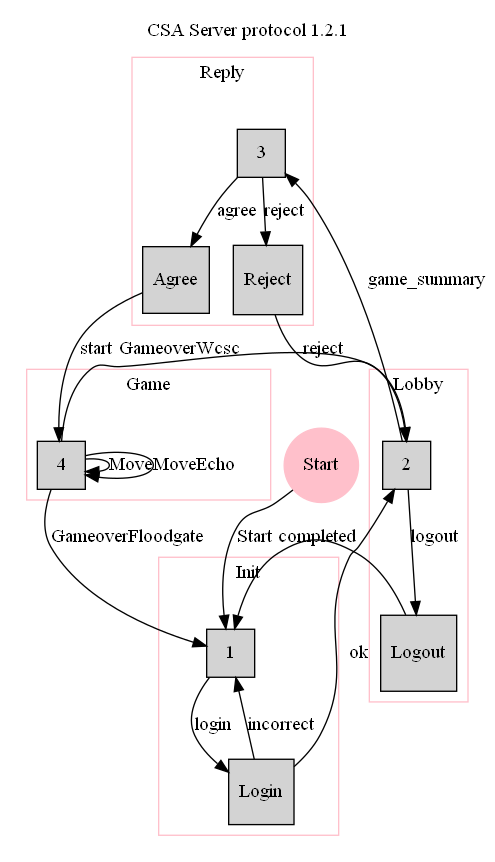
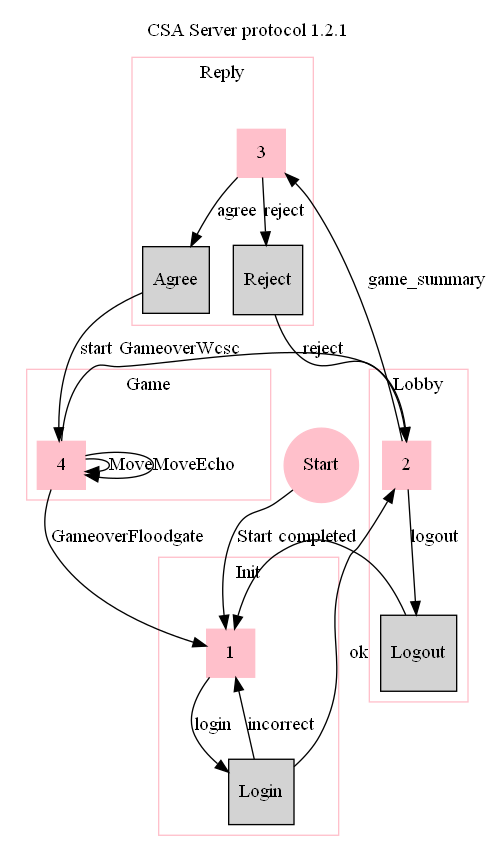
csa_server

diff --git a/csa_server.py b/csa_server.py
@@ -17,20 +17,20 @@ with g.subgraph(name='cluster_root') as c:
 
     with c.subgraph(name='cluster_init') as c2:
         c2.attr(color='pink', label='Init')
-        c2.node('1')
+        c2.node('1', color="pink")
         c2.node('Login')
         c2.edge('1', 'Login', label='login')
         c2.edge('Login', '1', label='incorrect')
 
     with c.subgraph(name='cluster_lobby') as c2:
         c2.attr(color='pink', label='Lobby')
-        c2.node('2')
+        c2.node('2', color="pink")
         c2.node('Logout')
         c2.edge("2", "Logout", label="logout")
 
     with c.subgraph(name='cluster_reply') as c2:
         c2.attr(color='pink', label='Reply')
-        c2.node('3')
+        c2.node('3', color="pink")
         c2.node('Agree')
         c2.node('Reject')
         c2.edge("3", "Agree", label="agree")
@@ -38,7 +38,7 @@ with g.subgraph(name='cluster_root') as c:
 
     with c.subgraph(name='cluster_game') as c2:
         c2.attr(color='pink', label='Game')
-        c2.node('4')
+        c2.node('4', color="pink")
         c2.edge("4", "4", label="Move")
         c2.edge("4", "4", label="MoveEcho")
 
